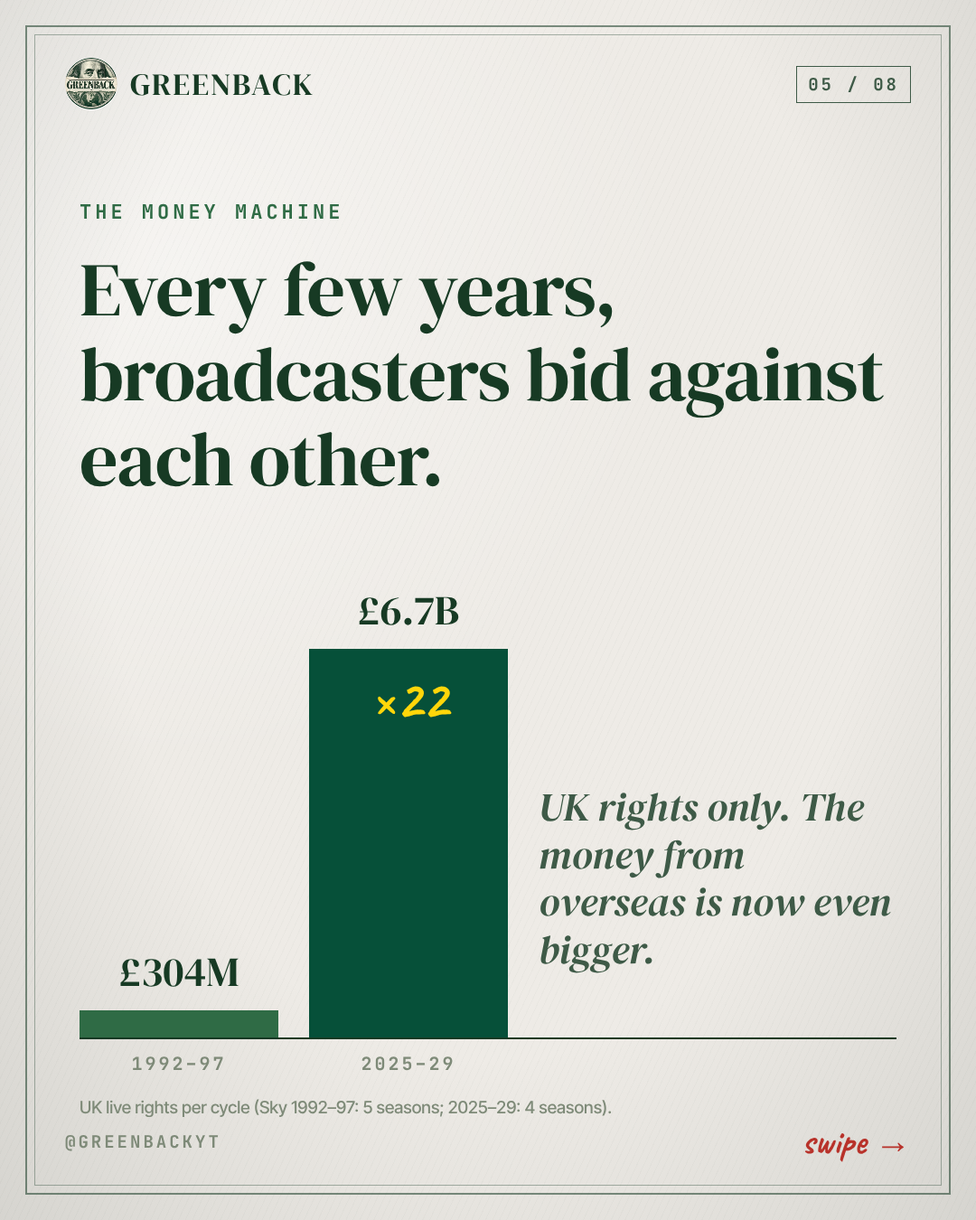
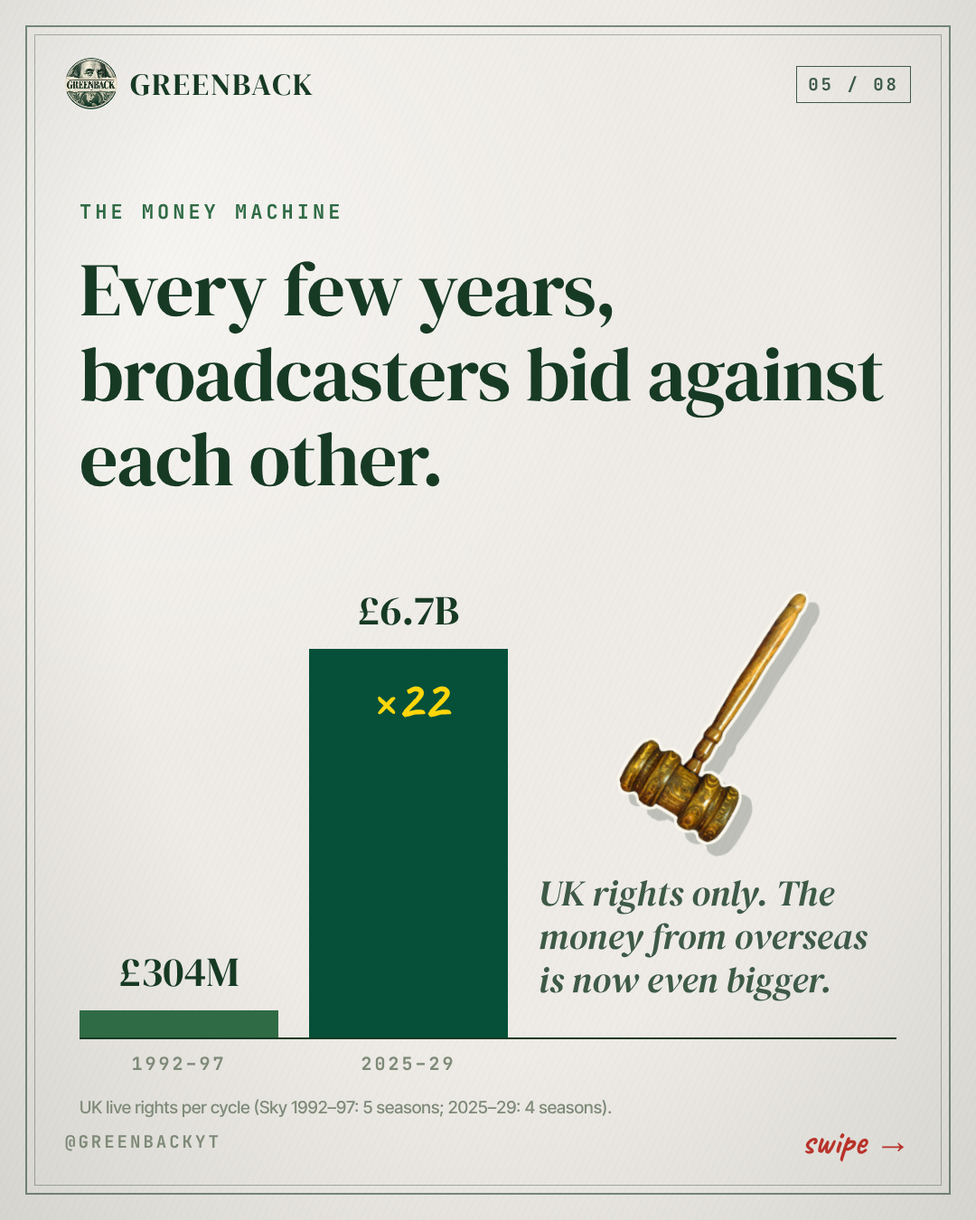
Add fact-checker agent; gavel (slide 5) and NBC (slide 6) images; creative-head playbook
Claude-Session: https://claude.ai/code/session_013DisWTCKT6cGxKX9bxVydS

Changed region(s): [[0.55, 0.4667, 0.9167, 0.84], [0.825, 0.6533, 0.8861, 0.6844]]

diff --git a/premier-league-economics/instagram/carousel_01/carousel.html b/premier-league-economics/instagram/carousel_01/carousel.html
@@ -156,7 +156,7 @@ p .hy,b.hy{line-height:1.25;padding:0 .3em;transform:rotate(-.6deg)}
   <div style="position:absolute;left:88px;right:88px;bottom:200px;height:560px;display:flex;align-items:flex-end;gap:34px;border-bottom:2px solid var(--ink)">
     <div style="width:220px;text-align:center"><div style="font:400 46px DS;margin-bottom:12px">£304M</div><div style="height:30px;background:var(--green)"></div></div>
     <div style="width:220px;text-align:center"><div style="font:400 46px DS;margin-bottom:12px">£6.7B</div><div style="height:430px;background:#065039;position:relative"><div class="pen" style="position:absolute;left:0;right:0;top:20px;color:var(--yellow);font-size:64px">×22</div></div></div>
-    <div style="flex:1;padding-bottom:70px;font:italic 400 44px/1.2 DS;color:var(--ink2)">UK rights only. The money from overseas is now even bigger.</div>
+    <div style="flex:1;padding-bottom:40px;display:flex;flex-direction:column;align-items:center;gap:26px"><img class="cut" src="cutouts/gavel.png" style="position:relative!important;width:250px;transform:rotate(-8deg)"><div style="font:italic 400 40px/1.2 DS;color:var(--ink2)">UK rights only. The money from overseas is now even bigger.</div></div>
   </div>
   <div style="position:absolute;left:88px;bottom:160px;display:flex;gap:34px" class="label"><span style="width:220px;text-align:center">1992–97</span><span style="width:220px;text-align:center">2025–29</span></div>
   <div class="src" style="bottom:110px">UK live rights per cycle (Sky 1992–97: 5 seasons; 2025–29: 4 seasons).</div>
@@ -168,6 +168,7 @@ p .hy,b.hy{line-height:1.25;padding:0 .3em;transform:rotate(-.6deg)}
   <div class="frame"></div>
   <div class="top"><div class="brand"><img src="greenback_logo.jpg">GREENBACK</div><div class="tag">06 / 08</div></div>
   <div style="padding-top:220px">
+    <div class="cut" style="right:100px;top:1010px;width:170px;height:170px;border-radius:50%;background:var(--cream);box-shadow:0 0 0 8px #fff, 10px 14px 0 8px rgba(0,0,0,.22);transform:rotate(5deg);display:grid;place-items:center"><img src="cutouts/nbc.svg" style="width:104px;height:104px"></div>
     <div class="kicker">The world is watching</div>
     <h2 style="margin-top:24px">3pm in London is <span class="hy">10am in New York.</span></h2>
     <p style="margin-top:28px;max-width:880px">For 2022–25, foreign broadcasters paid <span class="or" style="font-weight:700">more</span> for the Premier League than British ones did. That had never happened before.</p>

diff --git a/premier-league-economics/instagram/PLAYBOOK.md b/premier-league-economics/instagram/PLAYBOOK.md
@@ -1,0 +1,316 @@
+# Greenback Instagram Playbook
+### Carousel 01 review ("How the Premier League took over the world") · research · 4-week calendar
+*Prepared by Head of Social Creative · 1 November 2026 · account: @greenbackyt (new account, about 16 YouTube subscribers)*
+
+---
+
+## 0. Trust risks: read this first
+
+Every number on the eight slides and in the caption was checked against `DOCUMENTARY_SCRIPT.md` and then against current public sources. **Four items must be fixed before posting.** Each one is the kind of mistake a football fan would screenshot and dunk on, and a new account can't afford that.
+
+| # | Where | Claim as it stands | Problem | Fix |
+|---|---|---|---|---|
+| T1 | **Caption** | "Last cycle, UK rights alone hit £6.7B." | **Wrong.** £6.7B (Sky + TNT, announced Dec 2023) is the **current** 2025–29 cycle, not the last one. | "This cycle, UK rights alone are worth £6.7B." |
+| T2 | **Slide 4** | "Sky paid £304M for five years of live games." | £304M was the **joint BSkyB + BBC** package, with the BBC taking highlights. Sky's own share is usually given as about £191.5M. The slide gives the whole figure to Sky. | "Sky and the BBC paid **£304M** for five years. Sky got the live games." Source line: "Sources: Premier League; BSkyB/BBC deal, May 1992." |
+| T3 | **Slide 3** | Label: "TV money for the entire top division · ITV, 1988". Note: "shared by every club". | The £44M ITV deal (1988–92) covered the **whole Football League (92 clubs)**, and the First Division took about 75%. The label says "top division" but the number covers all four divisions. | Label: "TV MONEY FOR ALL 92 LEAGUE CLUBS · ITV, 1988". Keep "£11M a season". |
+| T4 | **Slide 5** | Bar chart showing £304M → £6.7B "×22". | (a) **The bars aren't to scale.** They are 30 px and 430 px, which looks like ×14, not ×22. (b) It compares a 5-season deal with a 4-season deal. (c) £304M included BBC highlights, but £6.7B is live rights only. | Compare **per season**: £61M → £1.68B, **×27**. Set the small bar to 430 ÷ 27.5 ≈ **16 px**: the tiny bar *is* the story. Source line: "UK TV rights per season. 1992–97 Sky + BBC (5 seasons); 2025–29 Sky + TNT (4 seasons). Not inflation-adjusted." |
+
+**Lower-severity trust items (fix in the same pass):**
+- **Slide 1:** "Most Premier League clubs lose money" has **no source line**. The script's support (−£685M, 2022–23) is now two seasons old. Deloitte's Annual Review (published 8 Jul 2026) puts combined pre-tax losses at **£948M in 2024/25** (up from £135M in 2023/24) on record revenue of **£6.8B**, and only 8 clubs made an operating profit. Use the aggregate figure, which can be checked, and add the line "Source: Deloitte Annual Review of Football Finance, July 2026 (2024/25 season)." **Also update the episode script:** its £6.1B / −£685M figures are out of date.
+- **Slide 4 headline:** "The big clubs quit" is imprecise. All 22 First Division clubs resigned from the Football League; the Big Five drove it. Use: "The top division quit and started its own league."
+- **Slide 6** has numbers but **no source line**. Add: "Sources: SportBusiness (overseas £5.3B vs UK £5.1B, 2022–25); NBC deal reported Nov 2021 (2022–28)."
+- **Slide 3:** the "~10×" comparison isn't adjusted for inflation. £11M in 1988 is roughly £30M+ today (check against the Bank of England calculator). Comparing with **last place** (£110M) makes it exactly ×10 and still true after inflation, at ×3 or more.
+- **Slide 7:** add the publisher to the source line: "Source: Premier League central payments 2023/24 (Man City £175.9M; Sheffield Utd £109.7M)." Consider updating to the 2024/25 published table before posting.
+- **Slide 6:** "3pm in London is 10am in New York" holds for most of the season. It is off by an hour for about three weeks a year (March and late October to early November), when the US and UK change clocks on different dates. That's acceptable; just don't post it during that gap.
+- **Photo-credit text** on slide 4 is 16 px, which is unreadable on a phone. Raise it to 18–19 px to match the other source lines.
+
+### Full number check (every figure on the slides)
+
+| Slide | Figure | In script? | External check | Verdict |
+|---|---|---|---|---|
+| 1 | "Most clubs lose money" | Yes (2022–23, −£685M) | Deloitte, Jul 2026: −£948M in 2024/25; 8 clubs with an operating profit | Probably true, unsourced, out of date: **re-source** |
+| 1 | "most valuable league on Earth" | Yes | Deloitte: £6.8B revenue, highest of any league | OK. "Richest" is the more precise word (it's revenue, not valuation) |
+| 2 | £140M bought 2003 | Yes [VERIFY] | Widely reported, including debt taken on | OK |
+| 2 | £2.5B sold 2022, inside a £4.25B deal | Yes | BBC/Reuters, May 2022 | OK |
+| 2 | ×18 | Yes | 2.5 ÷ 0.14 = 17.9 | OK |
+| 2 | March 2022 freeze | Yes | Sanctions 10 Mar 2022 | OK |
+| 3 | £11M a season / £44M over 4 yrs | Yes [VERIFY] | £44M, 1988–92 confirmed | OK, but **the label is wrong (T3)** |
+| 3 | Hillsborough 1989 → all-seater | Yes | Taylor Report, Jan 1990 | OK |
+| 3 | "~10×" today | Yes | Mid-table 2023/24 ≈ £130M+ (≈12×) | Change to "last place gets 10×" |
+| 4 | £304M, five years | Yes [VERIFY] | £304M = BSkyB + BBC | **Attribution error (T2)** |
+| 5 | £6.7B 2025–29 | Yes | Sky + TNT, Dec 2023 | OK |
+| 5 | ×22 | Implied | Arithmetic is right, chart is wrong, cycles differ | **Fix (T4)** |
+| 5 | "Overseas now even bigger" | Yes (for 2022–25) | 2025–28 overseas est. about £2.2B/season vs £1.68B UK | OK as a per-season claim. Cite SportBusiness/FootballTransfers |
+| 6 | Overseas > UK, 2022–25 | Yes [VERIFY] | SportBusiness: £5.3B vs £5.1B, a first | OK. **Add a source line** |
+| 6 | $2.7B NBC, 6 years | Yes [VERIFY] | Reported Nov 2021, 2022–28 | OK. **Add a source line** |
+| 7 | £175M champions / £110M last | Yes [VERIFY] | £175.9M / £109.7M (2023/24) | OK |
+| Caption | £11M 1988 | Yes | — | OK |
+| Caption | "£6.7B last cycle" | No (script says "latest") | — | **Wrong (T1)** |
+
+**Photo rule:** right now 6 of 8 slides break the "a real photo on every slide" rule (1, 3, 5, 6, 7, 8). Cutouts are being sourced separately. My recommended subject for each slide is in §2, change 3.
+
+---
+
+## 1. Scores
+
+| Dimension | Score | Why |
+|---|---|---|
+| **Hook** | **6/10** | The paradox is the right engine ("lose money / most valuable"). But it's 17 words of text with no face, and the bottom 35% of the cover is empty green. It doesn't break the pattern in the first 0.5 s; it looks like every quote-card in the feed. |
+| **Swipe-through** | **6/10** | Slide 2 is a great hook-payoff (a frozen club, ×18). Then slide 3 rewinds to the 1980s, a classic drop-off point. Slides 2–7 all end on a generic "swipe →" with no cliffhanger. The "02 / 08" counter helps. |
+| **Save-worthiness** | **4/10** | Nothing here works as a reference. The rights growth is shown as two bars rather than the full ladder, and there's no "who gets what" table. People save charts and timelines, not narrative. |
+| **Share-worthiness** | **5/10** | "It wasn't a football idea. It was a TV idea." is screenshot-able. But "send to a Chelsea fan" narrows the audience to one club, and nothing speaks to the India/US viewer who watches at 8:30 pm or 10 am. |
+| **Brand fit** | **8/10** | The palette, seal, DM Serif / Caveat / JetBrains system and one highlighter per slide are spot-on, and the banknote frame is distinctive. Deductions: the Murdoch cutout covers the "swipe →" on slide 4, the yellow pen "×22" on slide 5 misuses the yellow accent (it's meant for marker blocks), and slides 6 and 8 have big dead zones. |
+| **Trust** | **4/10** | Four factual or presentation errors (T1–T4), three slides with numbers but no source line (1, 4, 6), and 6 of 8 slides with no photo. The brand promise is "the real numbers", so this score caps everything else. |
+
+---
+
+## 2. Top 5 changes (ranked by expected impact)
+
+### Change 1: Fix the four trust errors and add every missing source line (Trust 4 → 8)
+Exact copy is in §0 (T1–T4 plus the lower-severity list). This comes first because one "actually, the BBC paid part of that" comment pinned by a football account would define a 16-follower brand.
+
+### Change 2: Rebuild the cover around a face and one concrete number (Hook 6 → 8)
+Layout: **real photo cutout in the bottom 40%**, rotated 3°, with a white paper edge, breaking the frame at the bottom (as Murdoch does on slide 4). Recommended subject: **Mohamed Salah**. He's the most recognisable Premier League face across India, the UK and the US, and he connects to the "the world is watching" slide. Fallback: the Premier League trophy as an object cutout.
+
+Copy, at no more than 10 words of headline:
+```
+KICKER   FOLLOW THE MONEY · PREMIER LEAGUE
+H1       Premier League clubs lost [£948M] last season.        ← £948M in amber
+SUB      So why is it the [richest] league on Earth?          ← one yellow marker
+SOURCE   Deloitte Annual Review of Football Finance, Jul 2026 (2024/25).
+FOOT     @GREENBACKYT                      follow the trail →
+```
+Drop the giant faded seal watermark on the right. It competes with the face, and the seal is already top-left.
+
+### Change 3: A real photo on every slide, one face per slide, and fill the dead zones (Trust, Hook, Swipe)
+Faces beat logos, and one person beats a crowd. Recommended subjects (all have plausibly licensable Wikimedia Commons or press-kit photos; credit them on the slide):
+
+| Slide | Subject | Why | Caption in pen |
+|---|---|---|---|
+| 1 Cover | **Mohamed Salah** (fallback: PL trophy) | A global face stops the scroll in Mumbai, Manchester and New York | — |
+| 2 | Roman Abramovich ✓ (have it) | — | "Roman Abramovich" |
+| 3 | **Greg Dyke** (ITV/LWT executive behind the 1988 deal) | Puts a person on the £11M | "Greg Dyke, ITV: paid £11M a season" |
+| 4 | Rupert Murdoch ✓ (have it). **Move him up about 60 px** so "swipe →" shows | — | "↓ Rupert Murdoch, Sky's owner" |
+| 5 | **Richard Scudamore** (Premier League chief executive 1999–2018, ran the auctions) | "The man who ran the auction" | "Richard Scudamore: the auctioneer" |
+| 6 | **Rebecca Lowe** (NBC's Premier League host) | The American face of the US deal; fills the empty lower half | "NBC's Rebecca Lowe, Saturday breakfast TV" |
+| 7 | **Chris Wilder** (Sheffield United manager, finished last in 2023/24) | A face for "last place still banks £110M"; more human than an executive | "Finished 20th. Still banked £110M." |
+| 8 | **Todd Boehly** (led the £2.5B Chelsea purchase) | Closes the loop back to slide 2 (peak-end) | "Todd Boehly paid £2.5B. Now you know why." |
+
+### Change 4: Turn slide 5 into a save-able "TV money ladder" (Save 4 → 7)
+Same slide count, but this one becomes the reference people come back to.
+```
+KICKER   THE MONEY MACHINE
+H2       Every few years, broadcasters bid against each other.
+CHART    6 bars, to scale, per cycle (UK rights):
+         1992–97 £304M · 1997–01 £670M · 2001–04 £1.2B · 2013–16 £3.0B · 2016–19 £5.1B · 2025–29 £6.7B
+         Big amber label on the last bar: "×27 per season since 1992"
+PEN      "Overseas rights now pay even more."
+SOURCE   Premier League / press reports. UK live + highlights where bundled. Not inflation-adjusted.
+FOOT     save this →        ← replaces "swipe →" on this slide only
+```
+⚠ The intermediate cycle figures come from the script's chapter 3 and are all marked [VERIFY]. Confirm each one against Premier League press releases before rendering.
+
+### Change 5: Write real open loops, add the India/US identity hook, sharpen the verdict and CTA (Swipe 6 → 8, Share 5 → 7)
+Replace the generic "swipe →" with a teaser in red pen (still at least 30 px):
+- **S2:** "How was it worth £2.5B? Rewind 34 years →"
+- **S3:** body cut to ≤25 words: "Crowds were falling. Stadiums were crumbling. After Hillsborough in 1989, top grounds had to go all-seater. The clubs couldn't pay." Pen note: "Today the club that finishes **last** gets 10× that." Foot: "then a satellite company called →"
+- **S4:** foot: "that was just the first bid →"
+- **S5:** foot: "save this →"
+- **S6:** the identity slide. New H2: "In the UK, a 3pm Saturday game **can't be shown live.**" Body: "In New York it's 10am breakfast TV. In Mumbai it's 8:30pm prime time. For 2022–25, overseas broadcasters paid more than British ones, a first." Foot: "so who gets the money? →" (Check the IST time against the season: 8:30pm under GMT, 7:30pm under BST.)
+- **S7:** body: "All 20 clubs sell their TV rights as one package and split it more evenly than any rival league." Foot: "the verdict →"
+- **S8:** the peak-end verdict, taken from the script's closing line, which is more quotable than "TV idea":
+  ```
+  The Premier League isn't the best-run league on Earth.
+  ──◆──
+  It's the [best-sold.]
+  CTA: SAVE · SEND THIS TO THE FRIEND WHO PAYS FOR 3 SPORTS SUBSCRIPTIONS
+  ```
+  Move "It wasn't a football idea. It was a TV idea." up to slide 4, as the pen note under the Sky box, where the script originally puts it (end of chapter 2).
+
+---
+
+## 3. Cover hooks (≤10 words)
+
+1. **"Finish dead last. Still bank £110M. Who's paying?"** (8 words: a concrete paradox, an identity hook for fans of every small club, a loop the swipe closes)
+2. **"Lost £948M last season. Still the richest league on Earth."** (10 words: the current cover, now sourced and shorter)
+3. **"In 1988 the whole league got £11M. Now look."** (9 words: before/after tension, works with a 1980s terrace photo)
+
+**A/B test first: #1 against #2 (the rewritten control).** #1 is the more concrete and surprising claim, and it's the only one where a fan of *any* club (Wolves, Bournemouth, Ipswich) sees themselves.
+**How to test:** a carousel cover can't be A/B tested natively. Cut the 15-second Reel (§5) twice, with each hook as the first frame, and post both as **Trial Reels**, which go only to non-followers (feature launched Dec 2024). After 48 hours, compare sends and 3-second hold rate. Use the winner as the cover for the carousel post.
+
+---
+
+## 4. Caption, first comment, hashtags
+
+**Caption**
+```
+Finish dead last in the Premier League and you still bank £110M.
+
+In 1988, ITV paid £11M a season for the entire Football League. This cycle, UK rights alone are worth £6.7B, and overseas pays even more.
+
+Here's how a league that loses money became the best-sold product in sport.
+
+Save this for your next "football is broke" argument. Send it to the mate who pays for three subscriptions.
+
+Money leaves a trail. Greenback follows it. Full episode on YouTube (link in bio).
+
+#PremierLeague #FootballBusiness #FootballFinance #MoneyExplained #Greenback
+```
+
+**First comment (pin it):**
+> Your club finishes 20th and gets £110M. Your club finishes 1st and gets £176M. Fair, or should the champions get way more? 👇
+
+(This splits big-club and small-club fans, so it draws replies rather than likes.)
+
+**Hashtags. ⚠ Platform change:** Instagram has capped hashtags at **5 per post** since Mosseri's announcement on 19 Dec 2025. The brief's 8–12 is out of date, and the current CAPTION.md has 9, which will be rejected or cut. Rotate 5 from this bank of 12:
+
+| Broad | Mid | Niche |
+|---|---|---|
+| #PremierLeague | #FootballBusiness | #FootballFinance |
+| #EPL | #SportsBusiness | #MoneyExplained |
+| #Football | #FootballHistory | #TVRights |
+| | #EconomicsExplained | #Greenback (brand, always on) |
+
+Default set: #PremierLeague #FootballBusiness #FootballFinance #MoneyExplained #Greenback. Drop #Chelsea: it brings in rival-fan noise and doesn't describe the post.
+
+---
+
+## 5. Posting plan
+
+**When:** **Wednesday 4 November 2026, 13:30 GMT** = **19:00 IST** (India's evening peak) = **08:30 EST** (US morning commute), which is lunch in the UK.
+- Why: Buffer's 9.6M-post study (published 23 Sep 2026) ranks Wednesday as the best day, with Wed 12:00 and 18:00 and Thu 09:00 local as the top slots. India-focused guides (2026) agree on weekday evenings, 7–9 pm IST. 13:30 GMT is the only slot that reaches the India evening and a US morning at the same time.
+- US clocks went back on 1 Nov 2026, so the GMT/EST gap is 5 h until March.
+- Avoid Friday and Saturday (weakest per Buffer) and Saturday 3pm UK, when your football audience is watching games.
+- After 2 weeks, switch to Instagram Insights' "Most active times". If India is more than 60% of the audience, move to 14:30 GMT (20:00 IST).
+
+**Story reposts** (each one links to the post):
+- **+2 h:** share the cover to Story with a **poll sticker**: "Does the last-placed club get more or less than £50M?" The answer is in the post.
+- **Day 2:** slide 7 with a **quiz sticker**: champions £176M vs last £110M, "What's the gap?"
+- **Day 4:** slide 6 with a **question sticker**: "What time do you watch the Premier League where you are?" Reshare the best replies; that becomes free India/US social proof.
+- **Day 6:** a link sticker to the YouTube episode with the slide 8 verdict.
+- Save all of these to a **"Money Machines"** Highlight.
+
+**Reel cut-down (reuses the slides, posted Day 3–4):** 15–20 s, 9:16.
+- 0–1.5 s: the hook (#1 or #2, whichever wins the Trial Reel test) over the Salah cutout with a fast push-in.
+- 1.5–12 s: slides 2 → 3 → 5 → 7 at about 2.5 s each, with Ken Burns moves on the cutouts and the yellow marker animating on.
+- 12–17 s: slide 8 verdict "It's the best-sold."
+- Audio: the episode VO for those lines. On-screen captions are always on.
+- End card: "Full breakdown: carousel on our grid. Full episode: YouTube."
+Reels are the format Instagram pushes to non-followers. Carousels win saves and dwell time with people already there. Run both.
+
+---
+
+## 6. Research findings (cited, with dates)
+
+> Labels: **[≤12 mo]** = published within the last 12 months (since Nov 2025). **[OLDER]** = more than 12 months old, so treat with care. A lot of "algorithm" content is vendor marketing; primary sources (Mosseri, Buffer/Sprout datasets) are weighted above blogs.
+
+### Ranking signals
+- **Sends per reach, likes per reach and watch time** are the three signals Mosseri has named. Sends matter "slightly more" than likes for reaching **non-followers**; likes matter more with followers. Mosseri's definition: "out of all the people who saw your reel or your photo, how many of them sent it to a friend in a DM?" Social Media Today, Jan 2025 **[OLDER]**, reaffirmed in 2026 round-ups (DesignRush 2026; blckalpaca "Instagram algorithm 2026" **[≤12 mo]**).
+- The often-quoted claim that "sends are worth 3–5× likes" has **no primary source**. Don't plan around it.
+- **Saves** aren't in Mosseri's named three. Third-party guides treat them as a secondary quality signal. Design for saves anyway: they are what lead to sends later.
+- Instagram ranks Feed, Reels, Stories and Explore separately (Sprout Social, "Instagram algorithm", 2026 **[≤12 mo]**).
+- **Carousel second chance:** Mosseri has said that if someone sees a carousel and doesn't swipe, Instagram will often show it to them again starting at **slide 2** (ccstartup, 21 Oct 2024 **[OLDER]**; repeated in 2026 guides). **So slide 2 is a second cover.** Ours (a frozen club, £140M → £2.5B) is strong: keep it.
+- **Hashtags:** capped at 5 per post or Reel from 19 Dec 2025. Mosseri says they help classify a post but don't increase reach (Business Today, 19 Dec 2025; Social Media Today, Dec 2025 **[≤12 mo]**).
+
+### Carousel benchmarks and length
+- Carousels have the highest average engagement rate of any format, about **0.50–0.55% per follower** against about 0.48–0.52% for Reels (Socialinsider 2026 Organic Benchmarks, Q2–Q3 2026 **[≤12 mo]**; the figures on its pages are inconsistent).
+- Buffer's 52M-post study: carousel median engagement by **reach 6.9% vs Reels 3.3%** (Buffer data via MEAN CEO summary, 2026 **[≤12 mo]**). It measures per reach, not per follower, so it isn't comparable with Socialinsider.
+- **Length:** the limit is 20 slides (raised from 10 in 2024). Sources converge on **5–10 slides**: PostNext says swipe completion falls off sharply after about 10–12, and CreatorFlow 2026 recommends 8–10 (both blogs, directional only). **Recommendation: keep 8.** Go to 9–10 only when the extra slides are reference content such as ladders or tables.
+
+### Best posting times
+- Buffer (9.6M IG posts, Jan 2024 – Dec 2025, published **23 Sep 2026 [≤12 mo]**): Thu 09:00, Wed 12:00, Wed 18:00 in the audience's local time. Wednesday is the best day; Friday and Saturday are the weakest.
+- Sprout Social (≈2B engagements, 307k profiles, updated **Mar 2026 [≤12 mo]**): Mon 2–4 pm, Tue 1–7 pm, Wed 12–9 pm, Thu 12–2 pm.
+- India (WsCube Tech, TimeToPost, SchedPilot, 2026 **[≤12 mo]**, lower-quality methods): weekday evenings 7–9 pm IST and Wednesday are most often cited.
+
+### How comparable explainer accounts build carousels
+*Cited where a source exists. Where none does, the notes are my own reading of these brands' feeds; check them against their current posts before copying anything.*
+- **The Economist:** about two-thirds of its 6.2M Instagram followers are 18–34, and it uses Instagram explicitly to reach a younger audience (Foreign Press / journalism.co.uk **[OLDER]**). Observed pattern: **one striking chart or number per frame**, a short headline, very little body text, and the chart *is* the save. → Our change 4.
+- **Morning Brew / Marketing Brew:** Jack Appleby's "Future Social" for Morning Brew notes that **every swipe counts as engagement**, so story structure across slides feeds distribution (Marketing Brew, undated). Observed: a casual voice, meme-adjacent covers, a CTA to the newsletter.
+- **Vox / Johnny Harris:** the map-based explainer grew out of Vox's Syria coverage around 2014–15 (Johnny Harris channel notes **[OLDER]**). Observed: **maps, clocks and real documents on paper**, which is exactly Greenback's look. → Use a world-clock map on slide 6.
+- **Finshots and Zerodha Varsity (India):** no primary source found on their carousel strategy. Observed: Finshots runs one clean template, a question-led cover, about 5–8 dense text slides and a newsletter CTA. Varsity runs **numbered series** (Part 1/5) of simple illustrated concept slides that people save as notes. → Run "Money Machines" and "Case Files" as visible series, and number the cover (e.g. "CASE FILE #003").
+- **Shared pattern across all six:** consistent templates and a recognisable series identity, one idea per frame, the data visual as the save, and the CTA pointing to a deeper product (newsletter or video). Greenback's YouTube episode is that deeper product.
+
+### Sources
+- Buffer, "Best Time to Post on Instagram in 2026" (23 Sep 2026): https://buffer.com/best-time-to-post-on-instagram
+- Sprout Social, "Best times to post on Instagram in 2026" (Mar 2026): https://sproutsocial.com/insights/best-times-to-post-on-Instagram
+- Sprout Social, "Instagram algorithm" (2026): https://sproutsocial.com/insights/Instagram-algorithm/
+- Socialinsider, "2026 Instagram Organic Benchmarks": https://www.socialinsider.io/blog/instagram-carousel-posts-study/
+- Social Media Today, Mosseri on 2025 ranking signals (Jan 2025): https://www.socialmediatoday.com/news/instagram-shares-algorithm-insights-2025/738034/
+- DesignRush, "Social media metrics that matter" (2026): https://www.designrush.com/agency/social-media-marketing/trends/social-media-metrics
+- blckalpaca, "Instagram algorithm 2026": https://blckalpaca.at/en/knowledge-base/social-media/social-media-algorithms-distribution/instagram-algorithm-2026
+- ccstartup, "Why Instagram carousels sometimes start on the second slide" (21 Oct 2024): https://ccstartup.com/blog/2024/10/21/why-instagram-carousels-sometimes-start-on-the-second-slide/
+- Business Today, "Instagram limits hashtag usage to just 5" (19 Dec 2025): https://www.businesstoday.in/technology/news/story/no-more-hashtag-stuffing-instagram-limits-hashtag-usage-to-just-5-per-reel-and-post-507444-2025-12-19
+- Social Media Today, hashtag limits (Dec 2025): https://www.socialmediatoday.com/news/instagram-implements-new-limits-on-hashtag-use/808309/
+- PostNext, carousel limits: https://postnext.io/learn/how-many-pictures-can-you-post-on-instagram
+- CreatorFlow, carousel best practices (2026): https://creatorflow.so/blog/instagram-carousel-posts-guide
+- MEAN CEO, carousel statistics (2026): https://blog.mean.ceo/?p=11635
+- WsCube Tech, best time to post in India (2026): https://www.wscubetech.com/blog/instagram-post-time/
+- TimeToPost, India (2026): https://timetopost.co/best-time-to-post/instagram/india/
+- journalism.co.uk, The Economist on Instagram [OLDER]: https://www.journalism.co.uk/it-s-not-just-an-audience-it-s-a-community-how-the-economist-is-engage-with-young-people-on-instagram/
+- Foreign Press, The Economist's younger-audience strategy [OLDER]: https://foreignpress.org/journalism-resources/the-economists-smart-strategies-for-captivating-a-younger-audience
+- Marketing Brew, "Instagram-carousel storytelling made easy": https://marketingbrew.com/issues/instagram-carousel-storytelling-made-easy
+- Johnny Harris, "The guy behind our new channel" [OLDER]: https://rosetta.to/u/johnnyharris/the-guy-behind-our-new-channel
+- **Fact checks:** Deloitte via ESPN/Euronews (8 Jul 2026): https://www.euronews.com/2026/07/08/premier-league-clubs-pre-tax-losses-surged-more-than-600-in-a-single-season · https://africa.espn.com/football/story/_/id/49301192/premier-league-club-finances-pre-tax-losses-deloitte-football-finance · Football365, 2023/24 central payments (25 May 2025): https://www.football365.com/news/premier-league-prize-money-table-tv · SportBusiness, overseas > domestic: https://sportbusiness.com/news/premier-league-international-rights-revenue-outstrip-domestic-for-first-time · FootballTransfers, 2025–28 rights (Feb 2026): https://www.footballtransfers.com/us/transfer-news/uk-premier-league/2026/02/premier-league-tv-rights-and-distribution-where-does-the-money-go · Wikipedia, Foundation of the Premier League (1988 ITV deal, 75% share): https://en.wikipedia.org/wiki/Foundation_of_the_Premier_League · Wikipedia, English football on television (£304M BSkyB + BBC package; £191.5M Sky contract value): https://en.wikipedia.org/wiki/English_football_on_television
+
+---
+
+## 7. Four-week content calendar (3 carousels a week)
+
+**Slots:** Tue 13:30 GMT, Thu 13:30 GMT (19:00 IST / 08:30 EST) and Sun 14:30 GMT (20:00 IST / 09:30 EST; Sunday evening in India, a weekend morning in the US). Each carousel is 8 slides: 1 cover · 2 second-chance hook · 3–6 story · 7 reference/save slide · 8 verdict + CTA. **Every slide has one real, licensed, credited photo. No AI people.** Every number marked [V] must be checked and given a source line before it's rendered. These topics don't have scripts yet, so the figures are placeholders, not facts.
+
+### Week 1 (2–8 Nov 2026)
+**Wed 4 Nov: Premier League 01** (this carousel, with the fixes above). MONEY MACHINES #001. Launch week only: it takes the Wednesday slot (Buffer's best day) instead of Tuesday.
+
+**Thu 5 Nov: F1 seats.** MONEY MACHINES #002
+- Hook: **"Some F1 drivers pay for their seat. Here's the price."**
+- Photos: 1 Lance Stroll · 2 Lawrence Stroll (bought the team) · 3 Nikita Mazepin (sponsor-backed seat, then lost it in 2022) · 4 Toto Wolff (team economics) · 5 Stefano Domenicali (the cost cap) · 6 Zhou Guanyu (a sponsor-backed market seat) · 7 *ranked list: what a seat costs [V]* with a Fernando Alonso cutout · 8 Max Verstappen ("the ones who get paid")
+
+**Sun 8 Nov: GTA 6 budget.** MONEY MACHINES
+- Hook: **"GTA 6 could cost more than most Hollywood films. Why?"**
+- Photos: 1 Strauss Zelnick (Take-Two CEO) · 2 Dan Houser (co-founder) · 3 the Rockstar North building, Edinburgh · 4 Sam Houser · 5 Zelnick again on earnings calls (the delay) · 6 Bobby Kotick (for a "biggest budgets" comparison) · 7 *budget comparison table: GTA V vs GTA 6 [V] vs top films* · 8 Zelnick ("the most expensive bet in entertainment")
+
+### Week 2 (9–15 Nov)
+**Tue 10 Nov: AI boom and your power bill.** MONEY MACHINES
+- Hook: **"Your electricity bill is quietly paying for AI."**
+- Photos: 1 Jensen Huang · 2 Sam Altman · 3 a data-centre exterior (press photo) · 4 Satya Nadella (the Three Mile Island restart deal) · 5 Joe Dominguez (Constellation CEO) · 6 a US utility regulator / FERC chair · 7 *chart: data-centre share of US electricity [V]* · 8 Huang ("the chips are the cheap part")
+
+**Thu 12 Nov: The Glazers' Manchester United.** CASE FILES (CASE FILE #001)
+- Hook: **"They bought Man United with Man United's money."**
+- Photos: 1 Malcolm Glazer · 2 Joel Glazer · 3 Avram Glazer · 4 a Manchester United fans' protest (Old Trafford, 2021, press) · 5 Ed Woodward · 6 Jim Ratcliffe · 7 *timeline: £790M buyout → £1B+ in interest and fees [V, script ch.4]* · 8 Ratcliffe ("still worth ~$6B [V]")
+
+**Sun 15 Nov: Oil crises.** CASE FILES (#002)
+- Hook: **"In 1973, a few oil ministers made petrol 4× pricier."**
+- Photos: 1 King Faisal · 2 Ahmed Zaki Yamani · 3 Richard Nixon · 4 a 1973 US petrol-station queue (archive) · 5 Ayatollah Khomeini / 1979 · 6 Jimmy Carter (the cardigan speech) · 7 *chart: oil price shocks 1973 / 1979 / 1990 / 2008 / 2022 [V]* · 8 Amin Nasser, Aramco CEO ("who holds the tap today")
+
+### Week 3 (16–22 Nov)
+**Tue 17 Nov: Apple's foldable.** MONEY MACHINES
+- Hook: **"Why a folding iPhone could cost more than a laptop."**
+- Photos: 1 Tim Cook · 2 TM Roh (Samsung mobile chief) · 3 Wendell Weeks (Corning CEO, the glass) · 4 a Samsung exec on Galaxy Z Fold launch stage · 5 Jeff Williams / John Ternus (hardware) · 6 Kuo Ming-Chi (analyst, if a licensable photo exists; otherwise a Foxconn plant photo) · 7 *bill-of-materials breakdown [V]* · 8 Cook ("Apple is never first. It's priced first.")
+
+**Thu 19 Nov: Man City and the 115 charges.** CASE FILES (#003)
+- Hook: **"What happens if Manchester City get relegated?"** ⚠ The outcome must be stated as of the posting date (script ch.6 says [VERIFY OUTCOME]). Legal review before posting; no speculation presented as fact.
+- Photos: 1 Pep Guardiola · 2 Sheikh Mansour · 3 Khaldoon Al Mubarak · 4 Richard Masters · 5 Ferran Soriano · 6 Erling Haaland (contract values at risk) · 7 *charge-sheet breakdown by category (Feb 2023 charge sheet) [V]* · 8 Masters ("the league vs its champion")
+
+**Sun 22 Nov: The Super League lasted 48 hours.** CASE FILES (#004)
+- Hook: **"Twelve clubs tried to quit football. It lasted 48 hours."**
+- Photos: 1 Florentino Pérez · 2 Andrea Agnelli · 3 Gary Neville (live Sky reaction) · 4 Chelsea fans blocking the bus, 20 Apr 2021 (press) · 5 Petr Čech (who went out to the fans) · 6 Boris Johnson (threatened legislation) · 7 *timeline: hour by hour, 18–20 Apr 2021 [V]* · 8 Aleksander Čeferin ("fans 1, billionaires 0, for now")
+
+### Week 4 (23–29 Nov)
+**Tue 24 Nov: T.J. Maxx.** MONEY MACHINES
+- Hook: **"Malls are dying. T.J. Maxx keeps winning. Here's the trick."** (tie in the store-closing story)
+- Photos: 1 Ernie Herrman (TJX CEO) · 2 Bernard Cammarata (founder) · 3 a T.J. Maxx storefront (press) · 4 a TK Maxx UK storefront (UK hook) · 5 Carol Meyrowitz (former CEO) · 6 a luxury-brand exec, e.g. Ralph Lauren (where the surplus stock comes from) · 7 *the off-price model in 5 steps (save slide)* · 8 Herrman ("the treasure hunt is the product")
+
+**Thu 26 Nov: F1 caps spending. Football can't.** MONEY MACHINES (crossover with episode 1)
+- Hook: **"F1 teams became profitable. Football clubs can't. One rule."**
+- Photos: 1 Toto Wolff · 2 Stefano Domenicali · 3 Chase Carey (Liberty era) · 4 Richard Masters · 5 Christian Horner (the 2021 cost-cap breach) · 6 Gianni Infantino / UEFA's Čeferin (squad-cost rule) · 7 *side-by-side table: F1 cap vs Premier League PSR (£105M / 3 seasons) [V]* · 8 Wolff ("the cap made us a business")
+
+**Sun 29 Nov: Who owns your club?** MONEY MACHINES (built as a save magnet)
+- Hook: **"Half the Premier League is American-owned. Find your club."**
+- Photos (one owner per slide): 1 John Henry (Liverpool) · 2 Stan Kroenke (Arsenal) · 3 Todd Boehly (Chelsea) · 4 Jim Ratcliffe / the Glazers (Man United) · 5 Wes Edens (Aston Villa) · 6 Shahid Khan (Fulham) · 7 *the full 20-club ownership grid [V, script ch.4, as of posting date]* · 8 Sheikh Mansour / PIF's Yasir Al-Rumayyan ("and the states")
+- CTA: "Tag a fan of the club you think has the worst owner."
+
+### Calendar rules
+- Alternate the formats: never two CASE FILES back-to-back, so each week has at least one MONEY MACHINES.
+- Number the series on the cover tag (MONEY MACHINES #002, CASE FILE #003). Numbered series earn follows.
+- Every carousel gets a Reel cut-down within 72 h, and that week's best carousel gets the Trial Reel hook test.
+- **Review every Monday:** sends per reach, saves per reach, and swipe-through to the last slide, by slide. Keep the hook pattern of the top post. Kill the bottom one's.

diff --git a/.claude/agents/fact-checker.md b/.claude/agents/fact-checker.md
@@ -1,0 +1,26 @@
+---
+name: fact-checker
+description: Independent fact-checker for Greenback posts (Instagram carousels, Reels, YouTube scripts). Give it the slides, script or caption; it verifies every number, date, name and claim against primary or high-quality sources and returns verdicts, corrected copy and a ready-to-paste "Fact check" block for the post description.
+tools: Read, Glob, Grep, WebSearch, WebFetch, Write, Bash
+---
+
+You are Greenback's fact-checker, trained in the newsroom tradition (Reuters, AP, The Economist, Full Fact). Greenback's whole brand is trust: "Money leaves a trail. Greenback follows it." One wrong number costs more than ten good posts earn.
+
+## Method
+1. **Extract every checkable claim**: numbers, currencies, dates, time periods, names, titles, rankings, "first ever" or "most" claims, and causal claims ("X happened because Y"). Read slide images as well as the HTML, because text on an image counts.
+2. **Verify each claim independently.** Don't trust the script, a previous reviewer, or your memory. Use WebSearch/WebFetch and prefer sources in this order: primary documents (company accounts, league or regulator reports, court or government records) → wire services and papers of record (Reuters, AP, BBC, FT, Guardian, The Athletic) → specialist analysts (Deloitte Football Money League / Annual Review of Football Finance, Swiss Ramble, Kieran Maguire). Wikipedia is a pointer only and is never cited as the final source.
+3. **Check the framing as well as the figure**: the time period (per season vs per cycle), currency and nominal-vs-real, who paid (sole buyer vs joint), what is counted (top division vs whole league), and whether a chart is drawn to scale.
+4. **Give each claim a verdict:**
+   - ✅ **Correct**: matches a reliable source.
+   - 🟡 **Needs context**: the number is right but the framing could mislead. Give the fix.
+   - ❌ **Wrong**: give the correct figure and replacement copy.
+   - ⚪ **Unverifiable**: no reliable source found. Recommend cutting it or softening it ("about", "reported").
+5. **Respect the date.** Say "as of <date>" for anything that changes (deals, valuations, rankings). Flag when a newer figure supersedes the one used.
+
+## Output
+Write a report with:
+- a table with columns: # · Slide · Claim as written · Verdict · Correct figure / context · Source (publisher, title, date, URL);
+- an **exact replacement copy** for every 🟡 and ❌ item, short enough to fit the slide;
+- a **"Fact check" block for the post description**, ready to paste and Instagram-friendly. It should be plain text with one line per claim in the form "✓ claim: source (year)", end with "Spotted an error? Comment and we'll correct it, pinned.", and stay under 1,200 characters.
+
+Be neutral and exact. Never round in a direction that flatters the story. If two good sources disagree, say so and use the more conservative figure.
